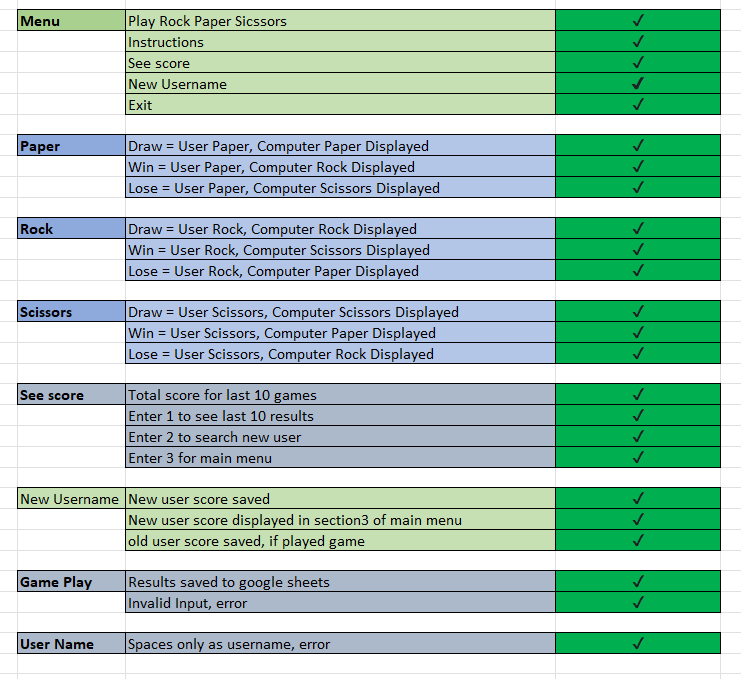
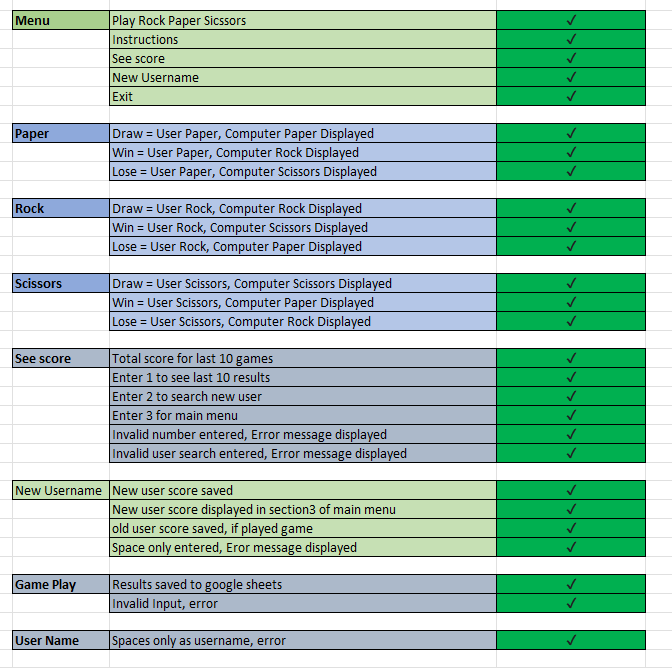
added and removed testing images in READme

diff --git a/run.py b/run.py
@@ -115,8 +115,10 @@ def instructions():
     print(" 6) The user can see there score in section 3 of the main menu.")
     print(' ')
     print(' ')
-    print("Would you like to Play the game, go back to the Menu or Exit?")
-    answer = input("Enter P to play\nEnter M to go to the Menu\nEnter E to exit game.\n").upper()
+    print(" Would you like to Play the game, go back to the Menu or Exit?")
+    print(" Enter P to play")
+    print(" Enter M to go to the Menu")
+    answer = input(" Enter E to exit game.\n >> ").upper()
     print('')
     while True:
         if answer == "P":
@@ -130,8 +132,8 @@ def instructions():
 
         else:
             print('')
-            print(" Please enter a valid input of either P to play, M for Menu or E to exit\n")
-            answer = input("").upper()
+            print(" Please enter a valid input of either,")
+            answer = input(" 'P' to play, 'M' for Menu or 'E' to exit\n >> ").upper()
     clear()
 
 

diff --git a/README.md b/README.md
@@ -1,6 +1,6 @@
 
 
-![Rock, Paper, Scissors image](documentation/rps1.jpg)
+![Rock, Paper, Scissors image](documentation/rps.jpg)
 
 
 [Link to live project](https://rock-paper-scissorspp3-18513f12fbb5.herokuapp.com/)
@@ -103,7 +103,8 @@ A flow chart for this game created with the help of Lucid [Web-Site](https://luc
 - Tested in both CodeAnyWhere terminal and Heroku terminal.
 - CI Python linter/Syntax checker [pep8ci](https://pep8ci.herokuapp.com/)
 
-- A space was enter in as a user name, and played the game, and in goolge sheets the below was entered. A score and total games, but no user name. Code was enter to stop spaces only being entered as a username. If spaces are only entered it's a loop.
+- A space was enter in as a user name, and played the game, and in goolge sheets the below was entered. A score and total games, but no user name. Code was enter to stop spaces only being entered as a username. If spaces are only entered an error message appears.
+
     ![Space entered Username](documentation/testnouser.png)
 
 - A username was enter and then setected 1 on main menu to play game and when the 1st option comes up, to enter R,P,S or leave the area, I entered M to go back to the menu and a Zero score was recorded. 
